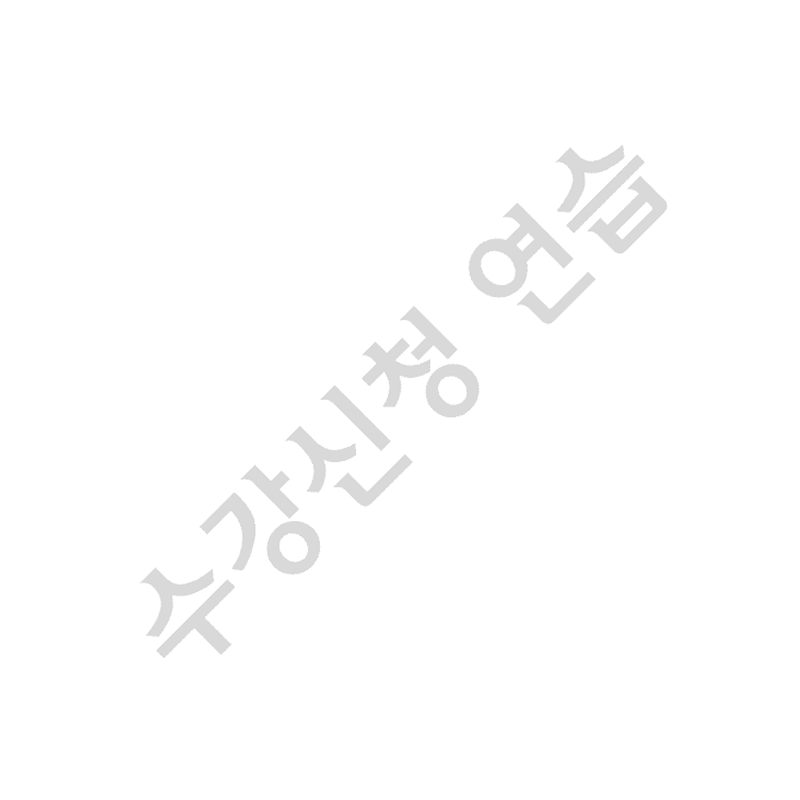
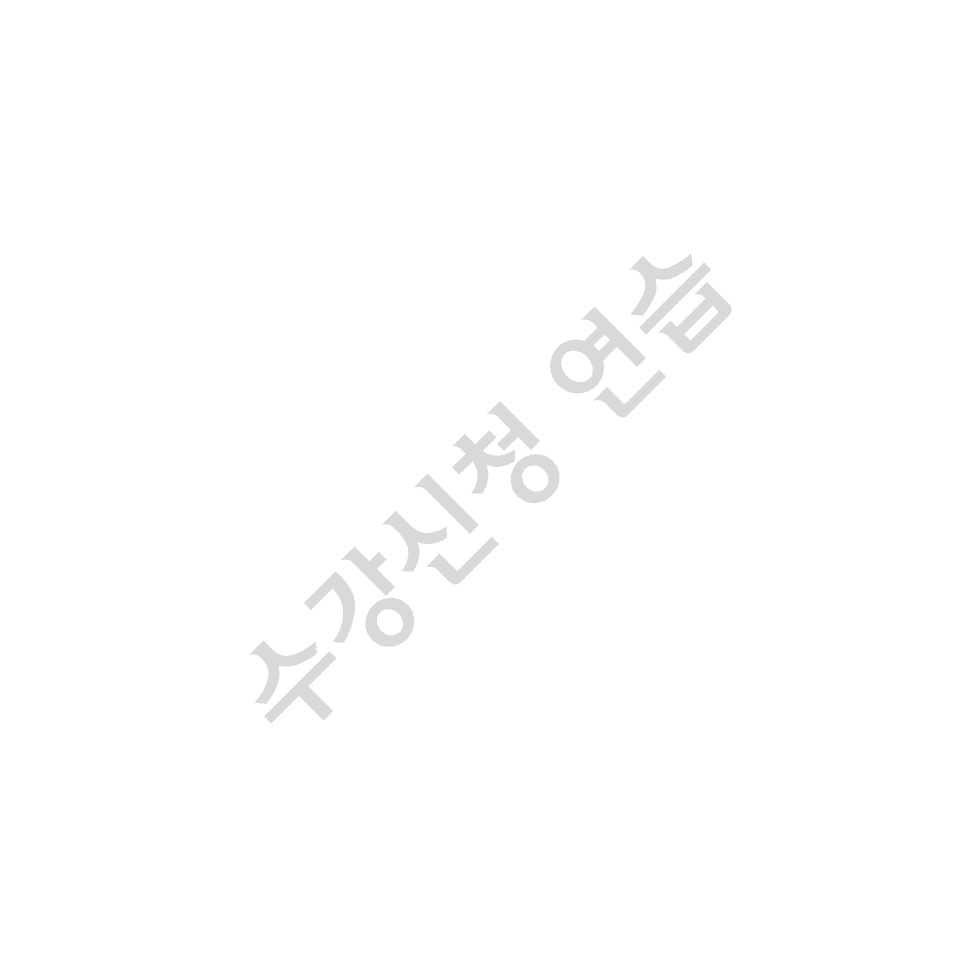
fix(ui): urgent restore original mock registration visuals and contact search

Changed region(s): [[0.1875, 0.375, 0.625, 0.8438], [0.5625, 0.1875, 0.8438, 0.4062], [0.625, 0.4062, 0.6562, 0.4375]]

diff --git a/css/practice.css b/css/practice.css
@@ -18,7 +18,7 @@ body {
 .navigation {
 	display: flex;
 	flex-direction: column;
-	background-color: #06111c;
+	background-color: #977955;
 	height: 100%;
 	font-size: 13.4px;
 	letter-spacing: 0px;
@@ -28,7 +28,7 @@ body {
 }
 
 .userInfo {
-	background-color: #1c2d40;
+	background-color: #002d56;
 	padding-left: 10px;
 	height: 218px;
 }
@@ -38,7 +38,7 @@ button {
   height: 35px;
   padding-left: 10px;
   text-align: left;
-  background-color: #b8862b;
+  background-color: #977955;
   color: white;
   border-style: hidden;
   font-family: 굴림;
@@ -47,7 +47,7 @@ button {
 }
 
 button:hover {
-  background-color: #9c7124;
+  background-color: #826648;
 }
 
 .noticeButton {
@@ -67,35 +67,6 @@ button:hover {
   /*좌측 메뉴 Notice버튼 hover*/
   background-color: #5d5d5d;
 }
-
-/* 학교 서비스와 구별하는 연습 전용 표시입니다. 깜빡임 없이 상시 표시합니다. */
-.practiceBadge {
-  box-sizing: border-box;
-  display: block;
-  margin: 10px 8px 0 0;
-  padding: 9px 8px;
-  border: 2px solid #ffd27a;
-  border-radius: 6px;
-  color: #ffd27a;
-  background: #06111c;
-  text-align: center;
-  font-family: 'Noto Sans KR', 'Apple SD Gothic Neo', sans-serif;
-  font-size: 17px;
-  font-weight: 800;
-  line-height: 1.3;
-}
-.practiceBadge small {
-  display: block;
-  margin-top: 4px;
-  color: #ffffff;
-  font-size: 11px;
-  font-weight: 500;
-}
-/* 기존 신청 표의 버튼은 유지하고 왼쪽 이동 메뉴만 구분합니다. */
-.navButton button { background-color: #06111c; border-bottom: 1px solid #1b2a3a; }
-.navButton button:hover { background-color: #13263a; }
-.navButton .noticeButton { background-color: #2a3644; }
-.navButton .noticeButton:hover { background-color: #364352; }
 
 p {
   margin: 0;
@@ -320,8 +291,10 @@ th {
 }
 
 .waitingLogo {
-	width: 44px;
-	height: auto;
+	width: 56px;
+	height: 56px;
+	border-radius: 50%;
+	object-fit: cover;
 	margin-bottom: 10px;
 }
 
@@ -462,19 +435,37 @@ th {
  #course-mode-nav .menu-extra select{max-width:190px}
 }
 
-/* 하단 안내문이 있어도 완료 과목의 마지막 행까지 스크롤할 수 있습니다. */
-.vsugangedTable { box-sizing: border-box; padding-bottom: 52px; }
-
-/* 교양 경고가 나타나도 아래 검색 안내·등록 표의 좌표가 변하지 않도록 높이를 예약합니다. */
-.course-warning-slot { box-sizing: border-box; display: flex; flex: 0 0 26px;
-  align-items: center; justify-content: center; width: 100%; height: 26px; min-height: 26px; }
-.course-warning-slot .course-general-warning { margin: 0; line-height: 1.4; }
-@media (min-width: 1500px) {
-  #course-mode-nav { box-sizing: border-box; height: 56px; min-height: 56px; }
+/* 원본의 황갈색 메뉴·파란색 사용자 영역은 그대로 두고 배치 회귀만 고칩니다. */
+.course-warning-slot {
+  box-sizing: border-box;
+  display: flex;
+  flex: 0 0 25px;
+  align-items: center;
+  justify-content: center;
+  width: 100%;
+  min-height: 25px;
 }
-@media (min-width: 1001px) and (max-width: 1499px) {
-  #course-mode-nav { box-sizing: border-box; height: 80px; min-height: 80px; }
+.course-warning-slot .course-general-warning { margin: 0; line-height: 1.45; }
+#course-mode-nav {
+  box-sizing: border-box;
+  flex: 0 0 40px;
+  height: 40px;
+  min-height: 40px;
+  flex-wrap: nowrap;
+  padding: 5px 8px;
 }
-@media (max-width: 1000px) {
-  #course-mode-nav { box-sizing: border-box; min-height: 110px; }
+#course-search-prompt {
+  box-sizing: border-box;
+  display: block;
+  flex: 0 0 24px;
+  height: 24px;
+  margin: 0;
+  line-height: 24px;
+}
+#course-search-prompt[hidden] {
+  display: block;
+  visibility: hidden;
+}
+@media (max-width: 1199px) {
+  #course-mode-nav { flex-basis: auto; height: auto; min-height: 40px; flex-wrap: wrap; }
 }

diff --git a/css/hanmo-policy-footer.css b/css/hanmo-policy-footer.css
@@ -184,8 +184,6 @@ body.hanmo-pc-only-layout > main {
   body.hanmo-practice-layout > .half { min-height: 0; overflow: hidden; }
   body.hanmo-practice-layout .half > .selectZone_mainArea,
   body.hanmo-practice-layout .half > .mainArea { min-height: 0; overflow: hidden; }
-  body.hanmo-practice-layout .selectZone_mainArea { width: calc(100% - 220px); }
-  body.hanmo-practice-layout .selectZone_mainArea > h2 { flex: 0 0 35px; height: 35px; }
   body.hanmo-practice-layout .tableZone {
     box-sizing: border-box;
     display: flex;
@@ -210,11 +208,8 @@ body.hanmo-pc-only-layout > main {
     padding-bottom: 0;
     overflow: visible;
   }
-  body.hanmo-practice-layout .tableZone td { height: 22px; font-size: 12px; }
-  body.hanmo-practice-layout .tableZone th { height: 26px; font-size: 12px; }
   body.hanmo-practice-layout #course-search-prompt { margin: 6px 0; }
   body.hanmo-practice-layout .course-general-warning { margin-block: 4px; }
-  body.hanmo-practice-layout .timer { margin-top: clamp(24px, 7vh, 74px); }
   body.hanmo-pc-only-layout > main { flex: 1 1 auto; min-height: 0; }
 }
 
@@ -230,4 +225,63 @@ body.hanmo-pc-only-layout > main {
   }
   body.hanmo-developer .container .info.blueBox { padding: 14px 20px; }
   body.hanmo-developer > .hanmo-policy-footer { flex: 0 0 auto; }
+}
+
+/* 기존 모의신청 색상·폰트는 유지하고 selectZone의 상·하단 테이블 좌표만 고정합니다. */
+body.hanmo-practice-layout .half > :is(.mainArea,.selectZone_mainArea) {
+  box-sizing: border-box;
+  flex: 1 1 auto;
+  width: auto;
+  min-width: 0;
+}
+@media (min-width: 1200px) and (min-height: 750px) {
+  body.hanmo-practice-layout .selectZone_mainArea { overflow: hidden; }
+  body.hanmo-practice-layout .selectZone_mainArea > h2 {
+    box-sizing: border-box;
+    height: 42px;
+    min-height: 42px;
+    flex: 0 0 42px;
+    margin: 0;
+  }
+  body.hanmo-practice-layout .tableZone {
+    box-sizing: border-box;
+    display: flex;
+    flex: 1 1 auto;
+    flex-direction: column;
+    width: calc(100% - 28px);
+    min-height: 0;
+    overflow: hidden;
+  }
+  body.hanmo-practice-layout .tableZone > #course-mode-nav,
+  body.hanmo-practice-layout .tableZone > .course-warning-slot,
+  body.hanmo-practice-layout .tableZone > #course-search-prompt {
+    flex-shrink: 0;
+  }
+  body.hanmo-practice-layout .vsugangTable {
+    box-sizing: border-box;
+    flex: 0 0 clamp(260px, 35vh, 380px);
+    height: clamp(260px, 35vh, 380px);
+    min-height: 0;
+    margin-top: 8px;
+    overflow-y: auto;
+    overflow-x: hidden;
+    align-items: stretch;
+  }
+  body.hanmo-practice-layout .vsugangedTable {
+    box-sizing: border-box;
+    flex: 0 0 clamp(138px, 21vh, 226px);
+    height: clamp(138px, 21vh, 226px);
+    min-height: 0;
+    margin-top: 26px;
+    padding-bottom: 0;
+    overflow-y: auto;
+    overflow-x: hidden;
+  }
+  body.hanmo-practice-layout .vsugangTable > table,
+  body.hanmo-practice-layout .vsugangedTable > table { width: 100%; }
+}
+/* 표가 없어도 검색 안내가 차지하는 24px은 유지하므로 Search 전후에 하단이 움직이지 않습니다. */
+body.hanmo-practice-layout #course-search-prompt[hidden] {
+  display: block;
+  visibility: hidden;
 }

diff --git a/html/developer.html b/html/developer.html
@@ -16,7 +16,7 @@
 		<meta name="description" content="한국외대 재학생을 위한 모의수강신청 사이트">
 		<meta name="keyword" content="한모, HUFS, HUFS수강연습, 외대수강연습, HUFS연습, 외대연습, 수강연습, 한국외대, 한국외대 수강신청, 한국외대 수강신청 연습, 수강신청 연습, 한국외국어대학교, 외대, 외대 수강신청, 외대 수강신청 연습, 수강신청, 수강신청 모의연습, 한국외대 수강신청 모의연습, 한국외대 수강신청 연습, 외대 수강신청 모의연습, sugangpractice, vsugangpractice, 한국외국어대학교 수강신청 모의연습">
         <meta name="viewport" content="width=device-width, initial-scale=1.0, user-scalable=no, maximum-scale=1.0, minimum-scale=1.0">
-		<link rel="icon" type="image/svg+xml" sizes="any" href="../img/favicon.svg">
+		<link rel="icon" type="image/png" href="../img/hanmo_color.png">
 		<link href="../css/gnb.css" rel="stylesheet" type="text/css">
 		<link href="../css/developer.css" rel="stylesheet" type="text/css">
 		<link href="../css/layout.css" rel="stylesheet" type="text/css">
@@ -91,9 +91,9 @@
 						<hr>
 						<ul class="hanmo-contributor-list">
 							<li><strong>ZetBe</strong><span>한국외국어대학교 컴퓨터전자시스템공학부</span></li>
-							<li><strong>심민성</strong></li>
-							<li><strong>이의상</strong></li>
-							<li><strong>김채윤</strong></li>
+							<li><strong>심민성</strong><span>한국외국어대학교 경제학전공</span></li>
+							<li><strong>이의상</strong><span>한국외국어대학교 ELLT</span></li>
+							<li><strong>김채윤</strong><span>한국외국어대학교 아랍어과</span></li>
 						</ul>
 					</div>
 					<div class='button' onclick="location.href='../index.html'">

diff --git a/index.html b/index.html
@@ -16,7 +16,7 @@
 		<meta name="description" content="학교 공식 서비스가 아닌 한모 수강신청 모의연습">
         <meta name="keyword" content="한모, HUFS, HUFS수강연습, 외대수강연습, HUFS연습, 외대연습, 수강연습, 한국외대, 한국외대 수강신청, 한국외대 수강신청 연습, 수강신청 연습, 한국외국어대학교, 외대, 외대 수강신청, 외대 수강신청 연습, 수강신청, 수강신청 모의연습, 한국외대 수강신청 모의연습, 한국외대 수강신청 연습, 외대 수강신청 모의연습, sugangpractice, vsugangpractice, 한국외국어대학교 수강신청 모의연습">
         <meta name="viewport" content="width=device-width, initial-scale=1.0, user-scalable=no, maximum-scale=1.0, minimum-scale=1.0">
-		<link rel="icon" type="image/svg+xml" sizes="any" href="./img/favicon.svg">
+		<link rel="icon" type="image/png" href="./img/hanmo_color.png">
 		<link href="./css/gnb.css" rel="stylesheet" type="text/css">
 		<link href="./css/normalize.css" rel="stylesheet" type="text/css">
 		<link href="./css/index.css" rel="stylesheet" type="text/css">

diff --git a/html/vsugang.html b/html/vsugang.html
@@ -16,7 +16,7 @@
 		<meta name="description" content="학교 공식 서비스가 아닌 한모 수강신청 모의연습">
 		<meta name="keyword" content="한모, HUFS, HUFS수강연습, 외대수강연습, HUFS연습, 외대연습, 수강연습, 한국외대, 한국외대 수강신청, 한국외대 수강신청 연습, 수강신청 연습, 한국외국어대학교, 외대, 외대 수강신청, 외대 수강신청 연습, 수강신청, 수강신청 모의연습, 한국외대 수강신청 모의연습, 한국외대 수강신청 연습, 외대 수강신청 모의연습, sugangpractice, vsugangpractice, 한국외국어대학교 수강신청 모의연습">
         <meta name="viewport" content="width=device-width, initial-scale=1.0, user-scalable=no, maximum-scale=1.0, minimum-scale=1.0">
-		<link rel="icon" type="image/svg+xml" sizes="any" href="../img/favicon.svg">
+		<link rel="icon" type="image/png" href="../img/hanmo_color.png">
 		<link href="../css/gnb.css" rel="stylesheet" type="text/css">
 		<link href="../css/vsugang.css" rel="stylesheet" type="text/css">
 		<link href="../css/layout.css" rel="stylesheet" type="text/css">

diff --git a/html/result.html b/html/result.html
@@ -16,7 +16,7 @@
 		<meta name="description" content="한국외대 재학생을 위한 모의수강신청 사이트">
 		<meta name="keyword" content="한모, HUFS, HUFS수강연습, 외대수강연습, HUFS연습, 외대연습, 수강연습, 한국외대, 한국외대 수강신청, 한국외대 수강신청 연습, 수강신청 연습, 한국외국어대학교, 외대, 외대 수강신청, 외대 수강신청 연습, 수강신청, 수강신청 모의연습, 한국외대 수강신청 모의연습, 한국외대 수강신청 연습, 외대 수강신청 모의연습, sugangpractice, vsugangpractice, 한국외국어대학교 수강신청 모의연습">
         <meta name="viewport" content="width=device-width, initial-scale=1.0, user-scalable=no, maximum-scale=1.0, minimum-scale=1.0">
-		<link rel="icon" type="image/svg+xml" sizes="any" href="../img/favicon.svg">
+		<link rel="icon" type="image/png" href="../img/hanmo_color.png">
 		<link href="../css/gnb.css" rel="stylesheet" type="text/css">
 		<link href="../css/result.css" rel="stylesheet" type="text/css">
 		<link href="../css/layout.css" rel="stylesheet" type="text/css">

diff --git a/html/academic-calendar.html b/html/academic-calendar.html
@@ -1,7 +1,7 @@
 <!doctype html>
 <html lang="ko">
 <head><script src="../js/pc-only.js"></script><meta charset="utf-8"><meta name="viewport" content="width=device-width, initial-scale=1">
-<title>학사 달력 | 한모</title><meta name="description" content="학교 공식 일정은 학교 원문에서 확인하는 비공식 달력"><link rel="icon" type="image/svg+xml" sizes="any" href="../img/favicon.svg">
+<title>학사 달력 | 한모</title><meta name="description" content="학교 공식 일정은 학교 원문에서 확인하는 비공식 달력"><link rel="icon" type="image/png" href="../img/hanmo_color.png">
 <link rel="stylesheet" href="../css/student-ui.css"><link rel="stylesheet" href="../css/academic-calendar-vendor.css"><link rel="stylesheet" href="../css/academic-calendar.css"><script src="../js/academic-calendar.js" defer></script><script src="../js/student-profile-bar.js" defer></script>  <link rel="stylesheet" href="../css/hanmo-policy-footer.css">
   <link rel="stylesheet" href="../css/hanmo-title-divider.css">
 </head>

diff --git a/html/selectZone.html b/html/selectZone.html
@@ -14,7 +14,7 @@
         <title>한모 - 모의수강신청</title>
         <meta charset="UTF-8">
 		<meta name="viewport" content="width=device-width, initial-scale=1.0, user-scalable=no, maximum-scale=1.0, minimum-scale=1.0">
-		<link rel="icon" type="image/svg+xml" sizes="any" href="../img/favicon.svg">
+		<link rel="icon" type="image/png" href="../img/hanmo_color.png">
 		<link href="../css/practice.css" rel="stylesheet" type="text/css">
 		<link href="../css/normalize.css" rel="stylesheet" type="text/css">
     	<link href="../css/gnb.css" rel="stylesheet" type="text/css">
@@ -52,7 +52,6 @@
                     <h1><span class='title'></span> 모의수강신청</h1>
                 
 					<p class='practiceMode'></p>
-                    <p class='practiceBadge'>모의수강신청 중<small>실제 수강신청 시스템이 아닙니다</small></p>
                 </div>
                 <div class="navButton"> <!--HUFS GOLD부분-->
                     <button onclick="location.href='vsugang.html'">메인 페이지</button>

diff --git a/js/academic-support.js b/js/academic-support.js
@@ -62,10 +62,10 @@
       return;
     }
     const search=new URL('https://www.google.com/search');
-    search.searchParams.set('q','site:hufs.ac.kr '+value+' 담당 부서 연락처');
+    search.searchParams.set('q','한국외국어대학교 '+value);
     resultLink.href=search.toString();
-    resultLink.textContent='외부 검색에서 공식 사이트 결과 보기';
-    resultText.textContent='검색어: '+value+' — 학교 공식 사이트로 범위를 제한한 외부 검색 링크입니다. 결과의 정확성과 최신성은 확인되지 않았습니다.';
+    resultLink.textContent='구글에서 학교명으로 검색 결과 보기';
+    resultText.textContent='구글 검색어: 한국외국어대학교 '+value+' — 검색 결과에 비공식 사이트가 포함될 수 있으므로 학교 원문을 확인하세요.';
     result.hidden=false;
     feedback.textContent='검색 링크를 만들었습니다. 외부 검색을 열기 전 검색어를 확인하세요.';
   }

diff --git a/html/academic-support.html b/html/academic-support.html
@@ -6,7 +6,7 @@
   <meta name="viewport" content="width=device-width, initial-scale=1">
   <meta name="description" content="학사 문의 주제를 입력하고 공식 사이트 검색어를 추천하는 비공식 검색 보조 화면">
   <title>학교 문의처 | 한모</title>
-  <link rel="icon" type="image/svg+xml" sizes="any" href="../img/favicon.svg">
+  <link rel="icon" type="image/png" href="../img/hanmo_color.png">
   <link rel="stylesheet" href="../css/student-ui.css">
   <link rel="stylesheet" href="../css/hanmo-title-divider.css">
   <link rel="stylesheet" href="../css/academic-support.css">

diff --git a/html/forecast.html b/html/forecast.html
@@ -7,7 +7,7 @@
   <meta name="viewport" content="width=device-width, initial-scale=1">
   <meta name="description" content="강의 개설 전망 · 한모 학생용 학업 도우미">
   <title>강의 개설 전망 | 한모</title>
-  <link rel="icon" type="image/svg+xml" sizes="any" href="../img/favicon.svg">
+  <link rel="icon" type="image/png" href="../img/hanmo_color.png">
   <link rel="stylesheet" href="../css/student-ui.css">
   <script src="../js/academic-data-source.js" defer></script>
   <script src="../js/student-forecast.js" defer></script>

diff --git a/html/catalog.html b/html/catalog.html
@@ -6,7 +6,7 @@
   <meta name="viewport" content="width=device-width, initial-scale=1">
   <meta name="description" content="비공식 강의 개설 전망 · 실제 정보 미연결">
   <title>강의 검색 | 한모</title>
-  <link rel="icon" type="image/svg+xml" sizes="any" href="../img/favicon.svg">
+  <link rel="icon" type="image/png" href="../img/hanmo_color.png">
   <link rel="stylesheet" href="../css/student-ui.css">
   <script src="../js/academic-data-source.js" defer></script>
   <script src="../js/student-catalog.js" defer></script>
